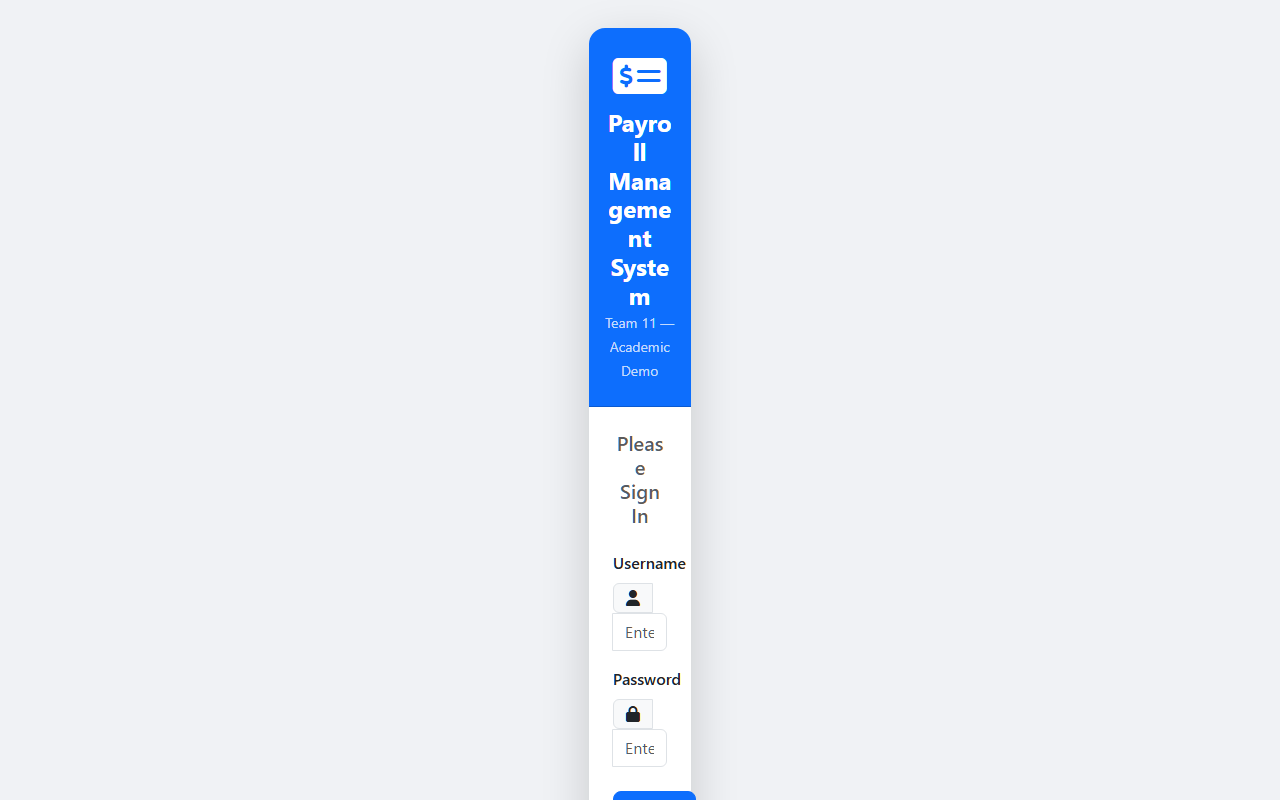
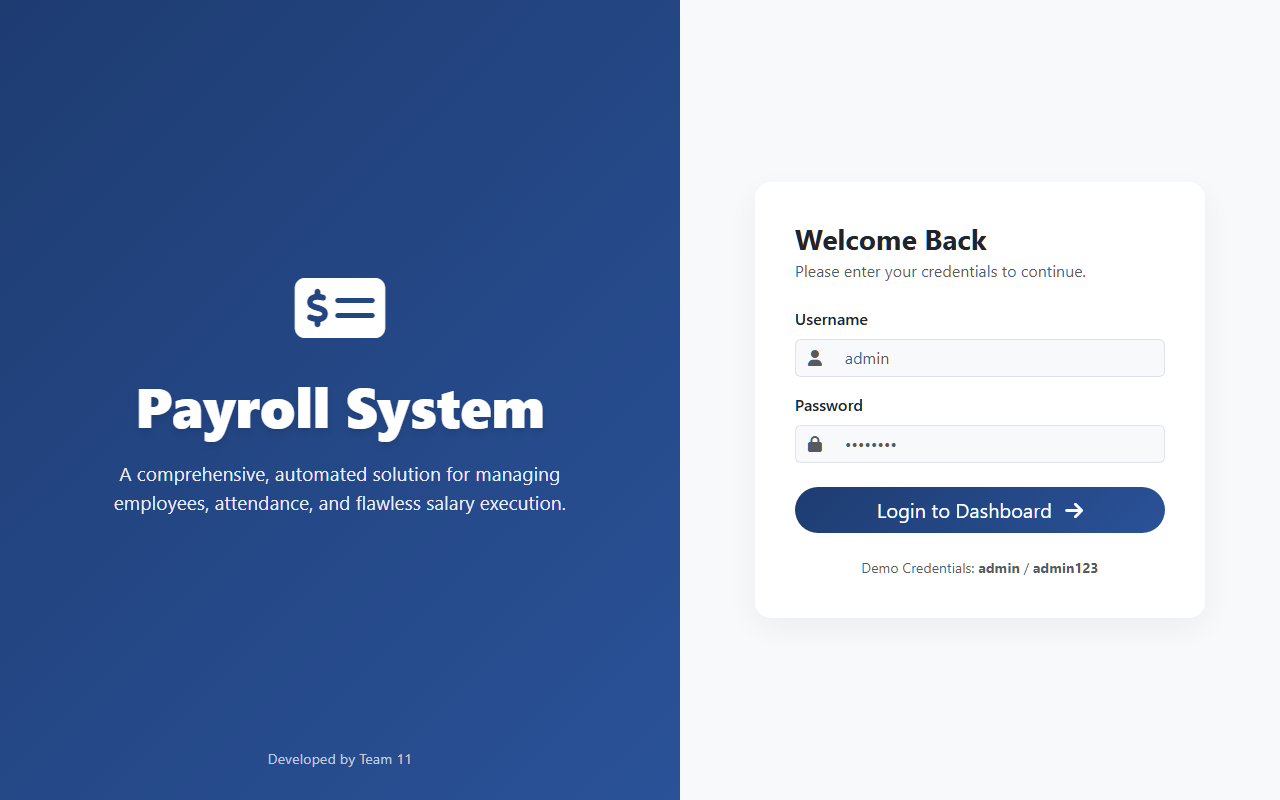
Enhance UI aesthetics for Presentation: Split Login, Gradient Dashboard

diff --git a/Payroll-Management-Testing-Project/app/templates/dashboard.html b/Payroll-Management-Testing-Project/app/templates/dashboard.html
@@ -1,84 +1,140 @@
 {% extends 'base.html' %}
 {% block title %}Dashboard{% endblock %}
 {% block content %}
-<h2 class="mb-4"><i class="fas fa-tachometer-alt me-2 text-primary"></i>Dashboard</h2>
-<p class="text-muted">Welcome back, <strong>{{ current_user.full_name }}</strong> | {{ current_month }}</p>
+<style>
+    .stat-card {
+        transition: transform 0.3s ease, box-shadow 0.3s ease;
+        border: none;
+        border-radius: 16px;
+        overflow: hidden;
+    }
+    .stat-card:hover {
+        transform: translateY(-5px);
+        box-shadow: 0 15px 30px rgba(0,0,0,0.1);
+    }
+    .stat-card-icon {
+        background: rgba(255, 255, 255, 0.2);
+        border-radius: 50%;
+        width: 60px;
+        height: 60px;
+        display: flex;
+        align-items: center;
+        justify-content: center;
+    }
+    .bg-gradient-primary { background: linear-gradient(135deg, #4e54c8 0%, #8f94fb 100%); }
+    .bg-gradient-success { background: linear-gradient(135deg, #11998e 0%, #38ef7d 100%); }
+    .bg-gradient-warning { background: linear-gradient(135deg, #f2994a 0%, #f2c94c 100%); }
+    .bg-gradient-info { background: linear-gradient(135deg, #2f80ed 0%, #56ccf2 100%); }
+    .glass-card {
+        background: rgba(255, 255, 255, 0.95);
+        backdrop-filter: blur(10px);
+        border: 1px solid rgba(255, 255, 255, 0.2);
+        border-radius: 16px;
+        box-shadow: 0 8px 32px rgba(0,0,0,0.05);
+    }
+</style>
+
+<div class="d-flex justify-content-between align-items-center mb-4">
+    <div>
+        <h2 class="fw-bold mb-1" style="color: #1e3c72;">Dashboard</h2>
+        <p class="text-muted mb-0">Welcome back, <strong>{{ current_user.full_name }}</strong> | {{ current_month }}</p>
+    </div>
+    <div class="text-end">
+        <div class="badge bg-primary px-3 py-2 rounded-pill shadow-sm fs-6">
+            <i class="fas fa-clock me-1"></i> System Online
+        </div>
+    </div>
+</div>
 
 <div class="row g-4 mb-4">
     <div class="col-md-3">
-        <div class="card border-0 shadow-sm text-white bg-primary rounded-3">
-            <div class="card-body d-flex align-items-center">
-                <i class="fas fa-users fa-3x me-3 opacity-75"></i>
+        <div class="card stat-card text-white bg-gradient-primary">
+            <div class="card-body p-4 d-flex align-items-center justify-content-between">
                 <div>
                     <div class="fs-1 fw-bold" id="total-employees">{{ total_employees }}</div>
-                    <div>Total Employees</div>
+                    <div class="opacity-75 text-uppercase small fw-semibold tracking-wide">Total Employees</div>
                 </div>
+                <div class="stat-card-icon"><i class="fas fa-users fa-2x"></i></div>
             </div>
         </div>
     </div>
     <div class="col-md-3">
-        <div class="card border-0 shadow-sm text-white bg-success rounded-3">
-            <div class="card-body d-flex align-items-center">
-                <i class="fas fa-user-check fa-3x me-3 opacity-75"></i>
+        <div class="card stat-card text-white bg-gradient-success">
+            <div class="card-body p-4 d-flex align-items-center justify-content-between">
                 <div>
                     <div class="fs-1 fw-bold" id="active-employees">{{ active_employees }}</div>
-                    <div>Active Employees</div>
+                    <div class="opacity-75 text-uppercase small fw-semibold tracking-wide">Active Staff</div>
                 </div>
+                <div class="stat-card-icon"><i class="fas fa-user-check fa-2x"></i></div>
             </div>
         </div>
     </div>
     <div class="col-md-3">
-        <div class="card border-0 shadow-sm text-white bg-warning rounded-3">
-            <div class="card-body d-flex align-items-center">
-                <i class="fas fa-user-times fa-3x me-3 opacity-75"></i>
+        <div class="card stat-card text-white bg-gradient-warning">
+            <div class="card-body p-4 d-flex align-items-center justify-content-between">
                 <div>
                     <div class="fs-1 fw-bold" id="inactive-employees">{{ inactive_employees }}</div>
-                    <div>Inactive Employees</div>
+                    <div class="opacity-75 text-uppercase small fw-semibold tracking-wide">On Leave / Inactive</div>
                 </div>
+                <div class="stat-card-icon"><i class="fas fa-user-times fa-2x"></i></div>
             </div>
         </div>
     </div>
     <div class="col-md-3">
-        <div class="card border-0 shadow-sm text-white bg-info rounded-3">
-            <div class="card-body d-flex align-items-center">
-                <i class="fas fa-file-invoice-dollar fa-3x me-3 opacity-75"></i>
+        <div class="card stat-card text-white bg-gradient-info">
+            <div class="card-body p-4 d-flex align-items-center justify-content-between">
                 <div>
                     <div class="fs-1 fw-bold" id="total-payrolls">{{ total_payrolls }}</div>
-                    <div>Payrolls Generated</div>
+                    <div class="opacity-75 text-uppercase small fw-semibold tracking-wide">Payrolls Processed</div>
                 </div>
+                <div class="stat-card-icon"><i class="fas fa-file-invoice-dollar fa-2x"></i></div>
             </div>
         </div>
     </div>
 </div>
 
 <div class="row g-4">
-    <div class="col-md-6">
-        <div class="card border-0 shadow-sm rounded-3">
-            <div class="card-body">
-                <h5 class="card-title text-success">
-                    <i class="fas fa-rupee-sign me-2"></i>{{ current_month }} Payroll Total
-                </h5>
-                <div class="fs-2 fw-bold text-success" id="month-total">₹ {{ "%.2f"|format(current_month_total) }}</div>
-                <p class="text-muted small mt-2">Net salary total for current month payrolls</p>
+    <div class="col-md-7">
+        <div class="card glass-card h-100">
+            <div class="card-body p-4">
+                <div class="d-flex justify-content-between align-items-start mb-4">
+                    <h5 class="card-title fw-bold" style="color: #2a5298;">
+                        <i class="fas fa-chart-line me-2"></i>Financial Overview ({{ current_month }})
+                    </h5>
+                    <span class="badge bg-success-subtle text-success rounded-pill px-3 py-1 border border-success">Active Cycle</span>
+                </div>
+                
+                <div class="text-center my-4 py-4 rounded-4" style="background: linear-gradient(to right, #f8f9fa, #e9ecef);">
+                    <div class="text-muted fw-semibold text-uppercase small mb-2">Net Salary Total Disbursed</div>
+                    <div class="display-4 fw-bold text-dark" id="month-total">
+                        <span class="text-success">₹</span> {{ "%.2f"|format(current_month_total) }}
+                    </div>
+                </div>
             </div>
         </div>
     </div>
-    <div class="col-md-6">
-        <div class="card border-0 shadow-sm rounded-3">
-            <div class="card-body">
-                <h5 class="card-title text-primary"><i class="fas fa-rocket me-2"></i>Quick Actions</h5>
-                <div class="d-flex flex-wrap gap-2 mt-3">
-                    <a href="{{ url_for('employees.add') }}" class="btn btn-outline-primary btn-sm" id="btn-add-employee">
-                        <i class="fas fa-user-plus me-1"></i>Add Employee
+    <div class="col-md-5">
+        <div class="card glass-card h-100">
+            <div class="card-body p-4">
+                <h5 class="card-title fw-bold mb-4" style="color: #2a5298;">
+                    <i class="fas fa-bolt me-2"></i>Quick Actions
+                </h5>
+                <div class="d-grid gap-3">
+                    <a href="{{ url_for('employees.add') }}" class="btn btn-light shadow-sm text-start py-3 rounded-3" id="btn-add-employee" style="border-left: 4px solid #4e54c8;">
+                        <i class="fas fa-user-plus me-3 text-primary fs-5"></i>
+                        <span class="fw-semibold">Onboard New Employee</span>
                     </a>
-                    <a href="{{ url_for('attendance.add') }}" class="btn btn-outline-success btn-sm" id="btn-add-attendance">
-                        <i class="fas fa-calendar-plus me-1"></i>Record Attendance
+                    <a href="{{ url_for('attendance.add') }}" class="btn btn-light shadow-sm text-start py-3 rounded-3" id="btn-add-attendance" style="border-left: 4px solid #11998e;">
+                        <i class="fas fa-calendar-check me-3 text-success fs-5"></i>
+                        <span class="fw-semibold">Record Attendance</span>
                     </a>
-                    <a href="{{ url_for('payroll.generate') }}" class="btn btn-outline-info btn-sm" id="btn-gen-payroll">
-                        <i class="fas fa-cogs me-1"></i>Generate Payroll
+                    <a href="{{ url_for('payroll.generate') }}" class="btn btn-light shadow-sm text-start py-3 rounded-3" id="btn-gen-payroll" style="border-left: 4px solid #f2994a;">
+                        <i class="fas fa-cogs me-3 text-warning fs-5"></i>
+                        <span class="fw-semibold">Run Payroll Engine</span>
                     </a>
-                    <a href="{{ url_for('reports.index') }}" class="btn btn-outline-secondary btn-sm" id="btn-reports">
-                        <i class="fas fa-chart-bar me-1"></i>View Reports
+                    <a href="{{ url_for('reports.index') }}" class="btn btn-light shadow-sm text-start py-3 rounded-3" id="btn-reports" style="border-left: 4px solid #2f80ed;">
+                        <i class="fas fa-chart-pie me-3 text-info fs-5"></i>
+                        <span class="fw-semibold">View Analytics & Reports</span>
                     </a>
                 </div>
             </div>

diff --git a/Payroll-Management-Testing-Project/app/templates/auth/login.html b/Payroll-Management-Testing-Project/app/templates/auth/login.html
@@ -1,55 +1,110 @@
 {% extends 'base.html' %}
 {% block title %}Login{% endblock %}
 {% block content %}
-<div class="row justify-content-center align-items-center" style="min-height:100vh; margin-top:-20px;">
-    <div class="col-md-5 col-lg-4">
-        <div class="card shadow-lg border-0 rounded-4">
-            <div class="card-header bg-primary text-white text-center py-4 rounded-top-4">
-                <i class="fas fa-money-check-alt fa-3x mb-2"></i>
-                <h4 class="mb-0 fw-bold">Payroll Management System</h4>
-                <small class="opacity-75">Team 11 — Academic Demo</small>
-            </div>
-            <div class="card-body p-4">
-                <h5 class="text-center text-muted mb-4">Please Sign In</h5>
-                
-                {% with messages = get_flashed_messages(with_categories=true) %}
-                    {% if messages %}
-                        {% for category, message in messages %}
-                            <div class="alert alert-{{ category }} py-2" role="alert" id="login-flash">
-                                <i class="fas fa-exclamation-triangle me-1"></i> {{ message }}
-                            </div>
-                        {% endfor %}
-                    {% endif %}
-                {% endwith %}
-                
-                <form method="POST" action="{{ url_for('auth.login') }}" id="login-form">
-                    <div class="mb-3">
-                        <label for="username" class="form-label fw-semibold">Username</label>
-                        <div class="input-group">
-                            <span class="input-group-text"><i class="fas fa-user"></i></span>
-                            <input type="text" class="form-control" id="username" name="username"
-                                   placeholder="Enter username" autocomplete="username"
-                                   value="{{ request.form.get('username', '') }}">
+<style>
+    body {
+        margin: 0;
+        padding: 0;
+        overflow: hidden;
+    }
+    .split-layout {
+        display: flex;
+        width: 100vw;
+        height: 100vh;
+        margin-top: -3rem; /* Offset base container padding */
+    }
+    .split-left {
+        flex: 1;
+        background: linear-gradient(135deg, #1e3c72 0%, #2a5298 100%);
+        color: white;
+        display: flex;
+        flex-direction: column;
+        justify-content: center;
+        align-items: center;
+        padding: 40px;
+        position: relative;
+    }
+    .split-left h1 {
+        font-size: 3.5rem;
+        font-weight: 800;
+        margin-bottom: 20px;
+        text-shadow: 0 4px 6px rgba(0,0,0,0.1);
+    }
+    .split-left p {
+        font-size: 1.2rem;
+        opacity: 0.9;
+        text-align: center;
+        max-width: 80%;
+    }
+    .split-right {
+        flex: 1;
+        display: flex;
+        justify-content: center;
+        align-items: center;
+        background-color: #f8f9fa;
+    }
+    .login-container {
+        width: 100%;
+        max-width: 450px;
+        padding: 40px;
+        background: white;
+        border-radius: 16px;
+        box-shadow: 0 10px 30px rgba(0,0,0,0.05);
+    }
+</style>
+
+<div class="split-layout">
+    <div class="split-left">
+        <i class="fas fa-money-check-alt mb-4" style="font-size: 5rem;"></i>
+        <h1>Payroll System</h1>
+        <p>A comprehensive, automated solution for managing employees, attendance, and flawless salary execution.</p>
+        <div style="position: absolute; bottom: 30px; opacity: 0.7; font-size: 0.9rem;">
+            Developed by Team 11
+        </div>
+    </div>
+    
+    <div class="split-right">
+        <div class="login-container">
+            <h3 class="fw-bold mb-1">Welcome Back</h3>
+            <p class="text-muted mb-4">Please enter your credentials to continue.</p>
+            
+            {% with messages = get_flashed_messages(with_categories=true) %}
+                {% if messages %}
+                    {% for category, message in messages %}
+                        <div class="alert alert-{{ category }} py-2" role="alert" id="login-flash">
+                            <i class="fas fa-exclamation-triangle me-1"></i> {{ message }}
                         </div>
+                    {% endfor %}
+                {% endif %}
+            {% endwith %}
+            
+            <form method="POST" action="{{ url_for('auth.login') }}" id="login-form">
+                <div class="mb-3">
+                    <label for="username" class="form-label fw-semibold">Username</label>
+                    <div class="input-group">
+                        <span class="input-group-text bg-light border-end-0"><i class="fas fa-user text-muted"></i></span>
+                        <input type="text" class="form-control border-start-0 bg-light" id="username" name="username"
+                               placeholder="admin" autocomplete="username"
+                               value="{{ request.form.get('username', '') }}">
                     </div>
-                    <div class="mb-4">
-                        <label for="password" class="form-label fw-semibold">Password</label>
-                        <div class="input-group">
-                            <span class="input-group-text"><i class="fas fa-lock"></i></span>
-                            <input type="password" class="form-control" id="password" name="password"
-                                   placeholder="Enter password" autocomplete="current-password">
-                        </div>
+                </div>
+                <div class="mb-4">
+                    <label for="password" class="form-label fw-semibold">Password</label>
+                    <div class="input-group">
+                        <span class="input-group-text bg-light border-end-0"><i class="fas fa-lock text-muted"></i></span>
+                        <input type="password" class="form-control border-start-0 bg-light" id="password" name="password"
+                               placeholder="••••••••" autocomplete="current-password">
                     </div>
-                    <div class="d-grid">
-                        <button type="submit" class="btn btn-primary btn-lg" id="login-btn">
-                            <i class="fas fa-sign-in-alt me-2"></i>Login
-                        </button>
-                    </div>
-                </form>
-            </div>
-            <div class="card-footer text-center text-muted py-3 bg-light rounded-bottom-4">
-                <small><strong>Demo Credentials:</strong> admin / admin123</small>
-            </div>
+                </div>
+                <div class="d-grid mb-3">
+                    <button type="submit" class="btn btn-primary btn-lg rounded-pill" id="login-btn" style="background: linear-gradient(135deg, #1e3c72 0%, #2a5298 100%); border: none;">
+                        Login to Dashboard <i class="fas fa-arrow-right ms-2"></i>
+                    </button>
+                </div>
+                <div class="text-center text-muted small mt-4">
+                    Demo Credentials: <strong>admin</strong> / <strong>admin123</strong>
+                </div>
+            </form>
         </div>
     </div>
 </div>
